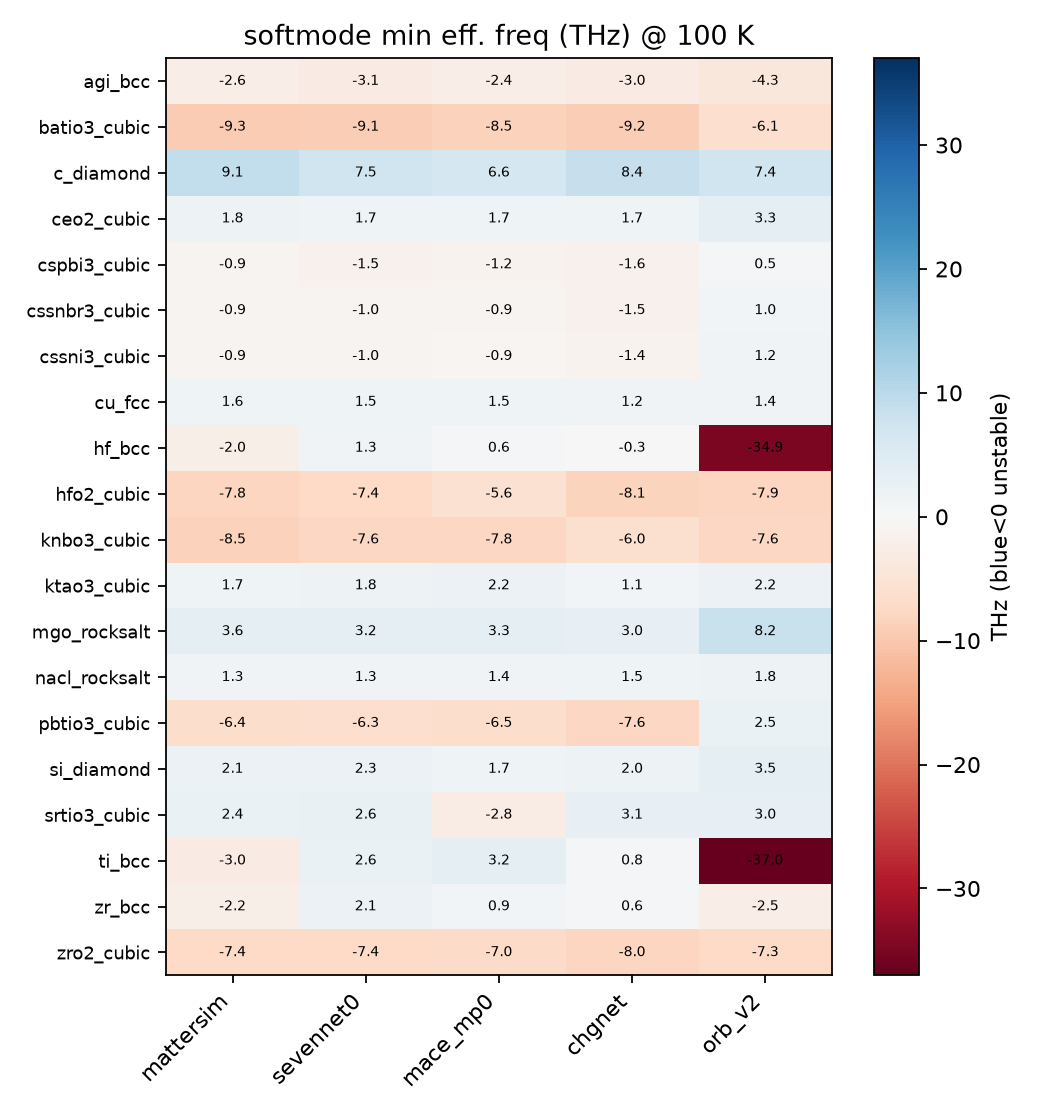
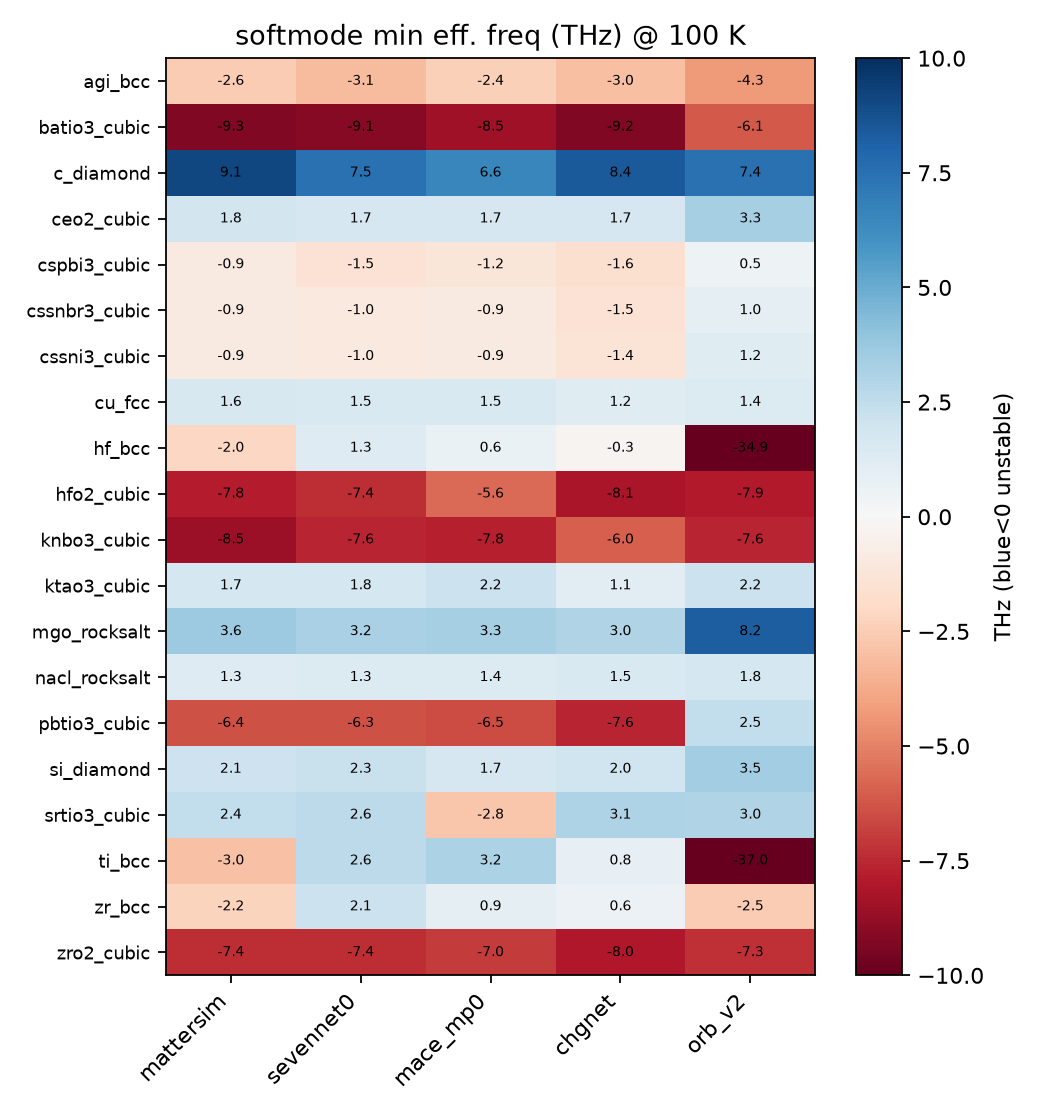
make_figures: clip softmode heatmap colour scale to +/-10 THz for readability

diff --git a/scripts/make_figures.py b/scripts/make_figures.py
@@ -45,8 +45,11 @@ def fig_softmode_heat():
     piv = d.pivot_table(index="system", columns="model", values="min_eff_freq_thz")
     piv = piv[[c for c in MODELS if c in piv.columns]]
     fig, ax = plt.subplots(figsize=(6.5, 7))
-    vmax = float(np.nanmax(np.abs(piv.values)))
-    im = ax.imshow(piv.values, aspect="auto", cmap="RdBu", vmin=-vmax, vmax=vmax)
+    # clip the colour scale so a few extreme (float32/direct-model) outliers don't wash out the
+    # structure; the printed cell values still report the true numbers.
+    vmax = 10.0
+    im = ax.imshow(np.clip(piv.values, -vmax, vmax), aspect="auto", cmap="RdBu",
+                   vmin=-vmax, vmax=vmax)
     ax.set_xticks(range(len(piv.columns))); ax.set_xticklabels(piv.columns, rotation=45, ha="right")
     ax.set_yticks(range(len(piv.index))); ax.set_yticklabels(piv.index, fontsize=8)
     for i in range(piv.shape[0]):